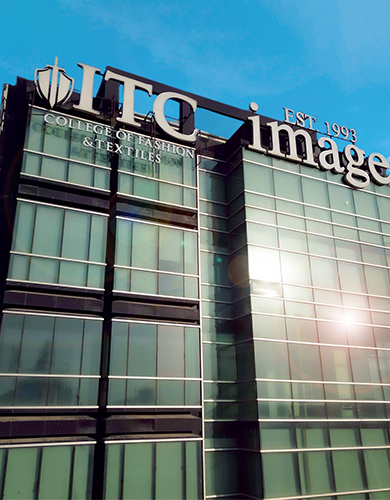
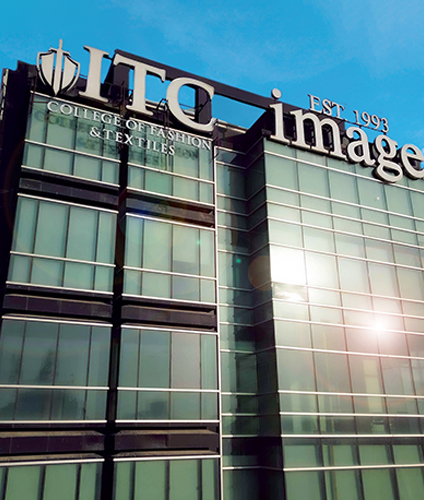
Slider Mobile

diff --git a/src/components/TeamResume.jsx b/src/components/TeamResume.jsx
@@ -1,137 +1,104 @@
-import React, { useRef } from "react";
-import { Button } from "./index";
+import React, { useState } from "react";
+import { Form, Button } from "react-bootstrap";
+import { useForm, ValidationError } from "@formspree/react";
 
-const TeamResume = ({ label, onChange, ...props }) => {
-  const inputRef = useRef(null);
+const TeamResume = () => {
+  const [state, handleSubmit] = useForm("mwkdoqer");
+  const [selectedFile, setSelectedFile] = useState(null);
 
-  const handleButtonClick = () => {
-    inputRef.current.click();
+  const handleFileChange = (event) => {
+    setSelectedFile(event.target.files[0]);
   };
 
-  const handleFileInputChange = (e) => {
-    const file = e.target.files[0];
-    // do something with the selected file
-  };
+  if (state.succeeded) {
+    return (
+      <div className="text-center my-10">
+        <p>Your form has been submitted successfully!</p>
+      </div>
+    );
+  }
+
   return (
-    <React.Fragment>
-      <div className="bg-white lg:my-32 lg:mt-20 xs:my-12">
-        <h1 className="xs:text-xl md:text-2xl lg:text-3xl text-center font-medium xs:mb-5 md:mb-12">
-          ATTACH YOUR RESUME
-        </h1>
-
+    <div className="bg-white lg:my-32 lg:mt-20 xs:my-12">
+      <h1 className="xs:text-xl md:text-2xl lg:text-3xl text-center font-medium xs:mb-5 md:mb-12">
+        ATTACH YOUR RESUME
+      </h1>
+      <form onSubmit={handleSubmit}>
         <div className="lg:grid grid-cols-2 gap-4 xll:mx-[20rem] lg:mx-[10rem] xs:mx-[2rem]">
-          {/* 1 */}
           <div className="mb-2">
             <label
-              for="text"
+              htmlFor="givenName"
               className="block mb-2 text-sm font-medium text-gray-900"
             >
               Given Name(s)<span className="text-red-600">*</span>
             </label>
             <input
               type="text"
+              id="givenName"
+              name="givenName"
               className="bg-white border border-gray-300 text-gray-900 text-sm outline-none block w-full p-2.5"
               required
             />
           </div>
-          {/* 2 */}
-          {/* <div className="mb-2">
-            <label
-              for="text"
-              className="block mb-2 text-sm font-medium text-gray-900"
-            >
-              Family Name<span className="text-red-600">*</span>
-            </label>
-            <input
-              type="text"
-              className="bg-white border border-gray-300 text-gray-900 text-sm outline-none block w-full p-2.5"
-              required
-            />
-          </div> */}
-          {/* 3 */}
           <div className="mb-2">
             <label
-              for="email"
+              htmlFor="email"
               className="block mb-2 text-sm font-medium text-gray-900"
             >
               Email<span className="text-red-600">*</span>
             </label>
             <input
               type="email"
+              id="email"
+              name="email"
               className="bg-white border border-gray-300 text-gray-900 text-sm outline-none block w-full p-2.5"
               required
             />
           </div>
-          {/* 4 */}
           <div className="mb-0 col-span-2">
             <label
-              for="Phone"
+              htmlFor="phone"
               className="block mb-2 text-sm font-medium text-gray-900"
             >
               Phone Number<span className="text-red-600">*</span>
             </label>
             <input
-              type="telephone"
+              type="tel"
+              id="phone"
+              name="phone"
               className="bg-white border border-gray-300 text-gray-900 text-sm outline-none block w-full p-2.5"
               required
             />
           </div>
-          {/* 5 */}
           <div className="mt-2 col-span-2">
             <label
-              for="email"
+              htmlFor="resume"
               className="block mb-2 text-sm font-medium text-gray-900"
             >
               Resume/CV{" "}
               <span className="text-red-500 text-xs">
-                {" "}
                 (Upload either DOC, DOCX, HTML, PDF, or TXT file types (5MB
-                max)*
+                max)*)
               </span>
             </label>
             <div className="pb-4 bg-white border border-gray-300 text-gray-900 text-sm outline-none w-full p-2.5 flex justify-center">
               <input
-                ref={inputRef}
-                onChange={handleFileInputChange}
                 type="file"
-                accept="application/pdf"
+                accept=".pdf"
+                onChange={handleFileChange}
+                id="resume"
+                name="resume"
                 required
-                style={{ display: "none" }}
               />
-
-              <button
-                onClick={handleButtonClick}
-                className="text-xs font-semibold block text-center"
-              >
-                <i className="far fa-arrow-alt-circle-up text-gray-400 text-xl"></i>{" "}
-                <br />
-                <span className="text-center">Drop file here</span>
-                <br /> or <span className="underline">Select file</span>
-              </button>
+              <button type="submit">Upload and Send</button>
             </div>
           </div>
-
-          {/* checkbox */}
-          {/* <div className="flex items-center mb-4 xs:mt-2 lg:mt-0">
-            <input
-              type="checkbox"
-              value=""
-              className="w-3 h-3 text-slate-600 bg-gray-100 border-gray-300 outline-none "
-            />
-            <label
-              for="disabled-checkbox"
-              className="ml-2 text-xs font-medium text-gray-400"
-            >
-              I accept the Privacy Policy.{" "}
-              <span className="text-red-500">*</span>
-            </label>
-          </div> */}
         </div>
         <div className="col-start-2 grid justify-end contact-btn mb-10 xll:mx-[20rem] lg:mx-[10rem] xs:mx-[2rem] mt-2">
-          <Button value={"Submit"} {...props} buttonId="Contact Form" />
+          <Button type="submit" buttonId="Contact Form" />
         </div>
-      </div>
-    </React.Fragment>
+      </form>
+    </div>
   );
 };
 

diff --git a/src/components/HomeSlider.jsx b/src/components/HomeSlider.jsx
@@ -5,9 +5,9 @@ import Slide2 from "../assets/HomeSlider/s2.jpg";
 import Slide3 from "../assets/HomeSlider/s3.jpg";
 import Slide4 from "../assets/HomeSlider/s4.jpg";
 import mSlide1 from "../assets/HomeSlider/ms1.png";
-import mSlide2 from "../assets/HomeSlider/ms2.jpg";
-import mSlide3 from "../assets/HomeSlider/ms3.jpg";
-import mSlide4 from "../assets/HomeSlider/ms4.jpg";
+import mSlide2 from "../assets/HomeSlider/ms2.png";
+import mSlide3 from "../assets/HomeSlider/ms3.png";
+import mSlide4 from "../assets/HomeSlider/ms4.png";
 
 import "../styles/flickity.css";
 
@@ -34,19 +34,19 @@ const HomeSlider = () => {
     >
       <div className="event-carousell">
         <img className="flic-img web" src={Slide4} alt="Events1" />
-        <img className="flic-img mob" src={mSlide1} alt="Events1" />
+        <img className="flic-img mob wm" src={mSlide1} alt="Events1" />
       </div>
       <div className="event-carousell">
         <img className="flic-img web" src={Slide1} alt="Events2" />
-        <img className="flic-img mob" src={mSlide2} alt="Events2" />
+        <img className="flic-img mob wm" src={mSlide2} alt="Events2" />
       </div>
       <div className="event-carousell">
         <img className="flic-img web" src={Slide2} alt="Events3" />
-        <img className="flic-img mob" src={mSlide3} alt="Events3" />
+        <img className="flic-img mob wm" src={mSlide3} alt="Events3" />
       </div>
       <div className="event-carousell">
         <img className="flic-img web" src={Slide3} alt="Events4" />
-        <img className="flic-img mob" src={mSlide4} alt="Events4" />
+        <img className="flic-img mob wm" src={mSlide4} alt="Events4" />
       </div>
     </Flickity>
   );

diff --git a/src/components/ContactForm.jsx b/src/components/ContactForm.jsx
@@ -3,7 +3,7 @@ import { Form, Button } from "react-bootstrap";
 import { useForm, ValidationError } from "@formspree/react";
 
 const ContactForm = () => {
-  const [state, handleSubmit] = useForm("maygojdw");
+  const [state, handleSubmit] = useForm("mjvqwowj");
   if (state.succeeded) {
     return (
       <div className="text-center my-10">
@@ -27,7 +27,7 @@ const ContactForm = () => {
               <Form.Group controlId="fname">
                 <Form.Control
                   type="text"
-                  name="fname"
+                  name="firstname"
                   value={state.fname}
                   placeholder=" "
                   className="peer block min-h-[auto] border border-gray-300 w-full px-3 py-[0.5rem] outline-none transition-all duration-200 ease-linear focus:placeholder:opacity-100 data-[te-input-state-active]:placeholder:opacity-100 motion-reduce:transition-none [&:not([data-te-input-placeholder-active])]:placeholder:opacity-1"
@@ -46,7 +46,7 @@ const ContactForm = () => {
               <Form.Group controlId="lname">
                 <Form.Control
                   type="text"
-                  name="lname"
+                  name="lastname"
                   value={state.lname}
                   className="peer block min-h-[auto] border border-gray-300 w-full px-3 py-[0.5rem] outline-none transition-all duration-200 ease-linear focus:placeholder:opacity-100 data-[te-input-state-active]:placeholder:opacity-100 motion-reduce:transition-none [&:not([data-te-input-placeholder-active])]:placeholder:opacity-1"
                   placeholder=" "
